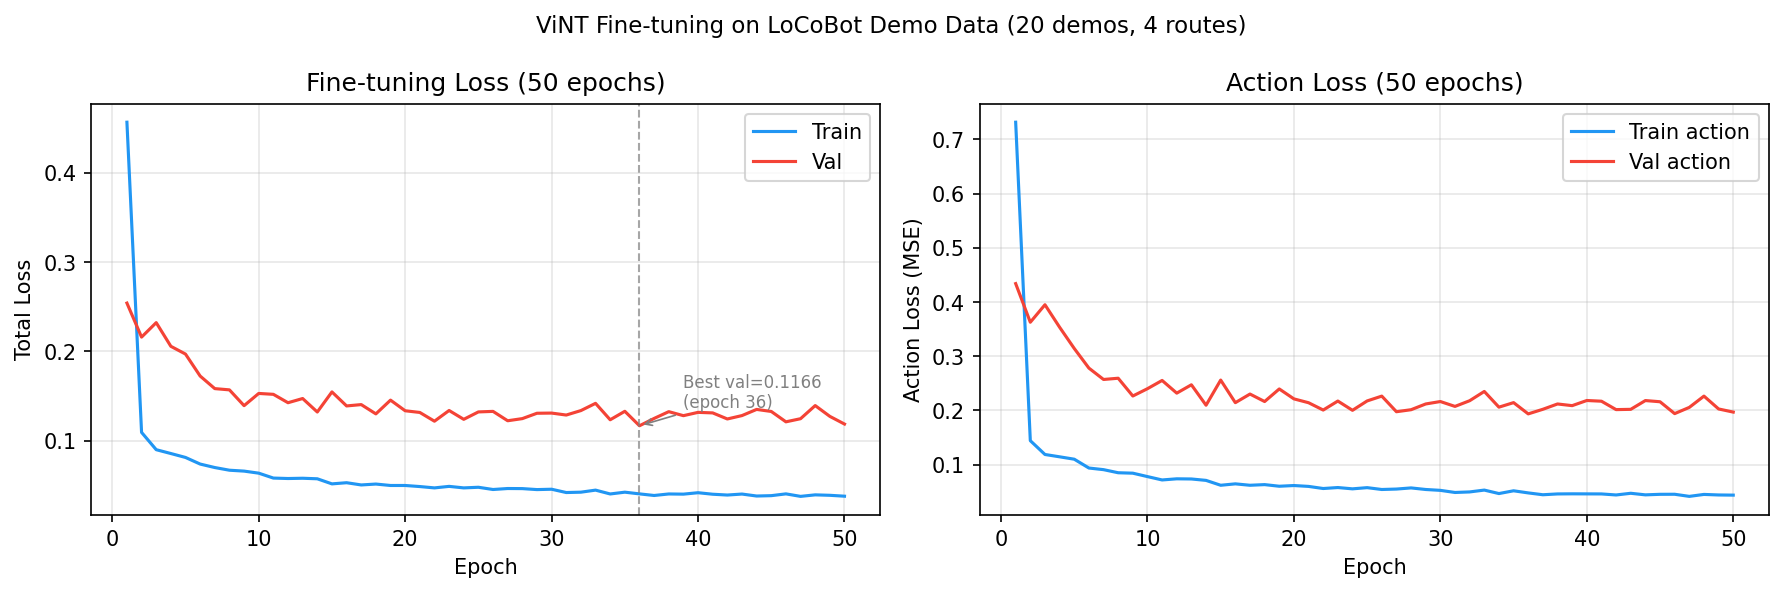
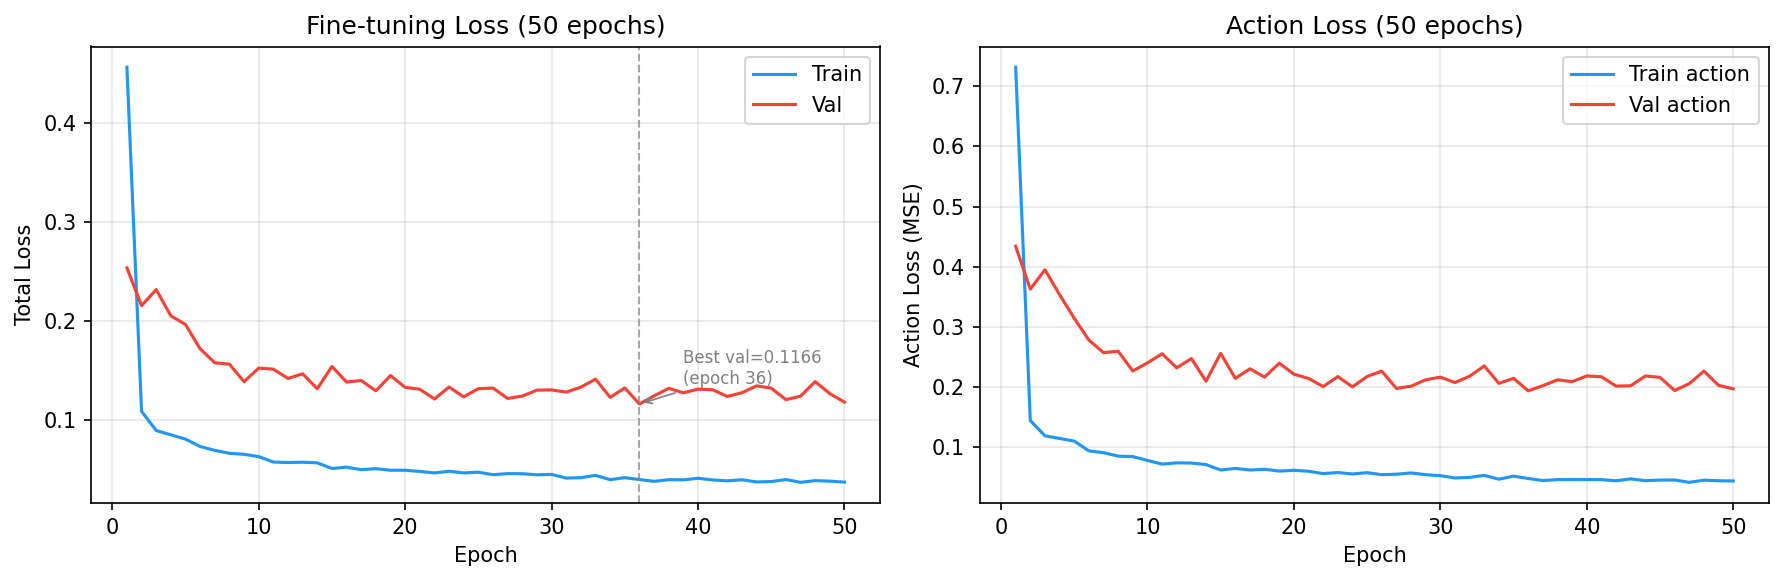
refine plots for final report

diff --git a/BC/scripts/plot_results.py b/BC/scripts/plot_results.py
@@ -97,7 +97,6 @@ ax.set_title("Action Loss (50 epochs)")
 ax.legend()
 ax.grid(True, alpha=0.3)
 
-fig.suptitle("ViNT Fine-tuning on LoCoBot Demo Data (20 demos, 4 routes)", fontsize=11)
 fig.tight_layout()
 out = OUT_DIR / "loss_curves.png"
 fig.savefig(out, dpi=150, bbox_inches="tight")
@@ -127,7 +126,7 @@ split_map.update({n: "eval" for n in eval_names})
 colors = {"train": "#2196F3", "val": "#FF9800", "eval": "#4CAF50"}
 labels_added = set()
 
-fig, ax = plt.subplots(figsize=(10, 8))
+fig, ax = plt.subplots(figsize=(10, 5))
 
 for pkl_path in sorted(DATA_DIR.glob("*/traj_data.pkl")):
     traj_name = pkl_path.parent.name
@@ -141,16 +140,19 @@ for pkl_path in sorted(DATA_DIR.glob("*/traj_data.pkl")):
         continue
 
     label = split if split not in labels_added else None
-    ax.plot(pos[:, 0], pos[:, 1], color=color, linewidth=1.2,
+    ax.plot(pos[:, 1], pos[:, 0], color=color, linewidth=1.2,
             alpha=0.7, label=label)
-    ax.plot(pos[0, 0], pos[0, 1], "o", color=color, markersize=4)
+    ax.plot(pos[0, 1], pos[0, 0], "o", color=color, markersize=4)
     labels_added.add(split)
 
-ax.set_xlabel("X (m)")
-ax.set_ylabel("Y (m)")
-ax.set_title("Collected Demo Trajectories (top-down view)")
+ax.set_xlabel("Y (m)")
+ax.set_ylabel("X (m)")
 ax.legend(title="Split")
 ax.set_aspect("equal")
+ax.invert_xaxis()
+ax.annotate("Note: positions are in per-session odometry frames;\ntrajectories across sessions may appear spatially offset.",
+            xy=(0.01, 0.01), xycoords="axes fraction", fontsize=7, color="gray",
+            va="bottom")
 ax.grid(True, alpha=0.3)
 fig.tight_layout()
 
